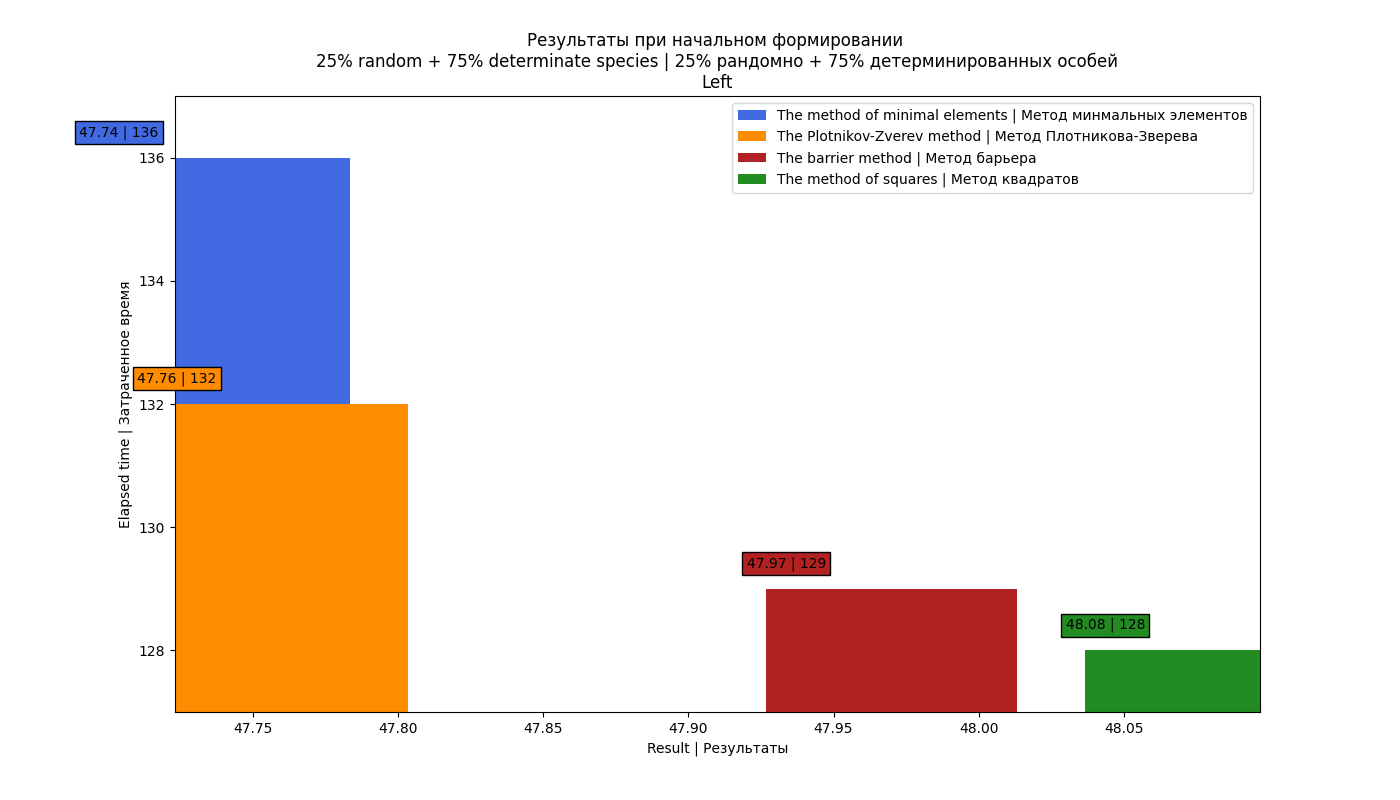
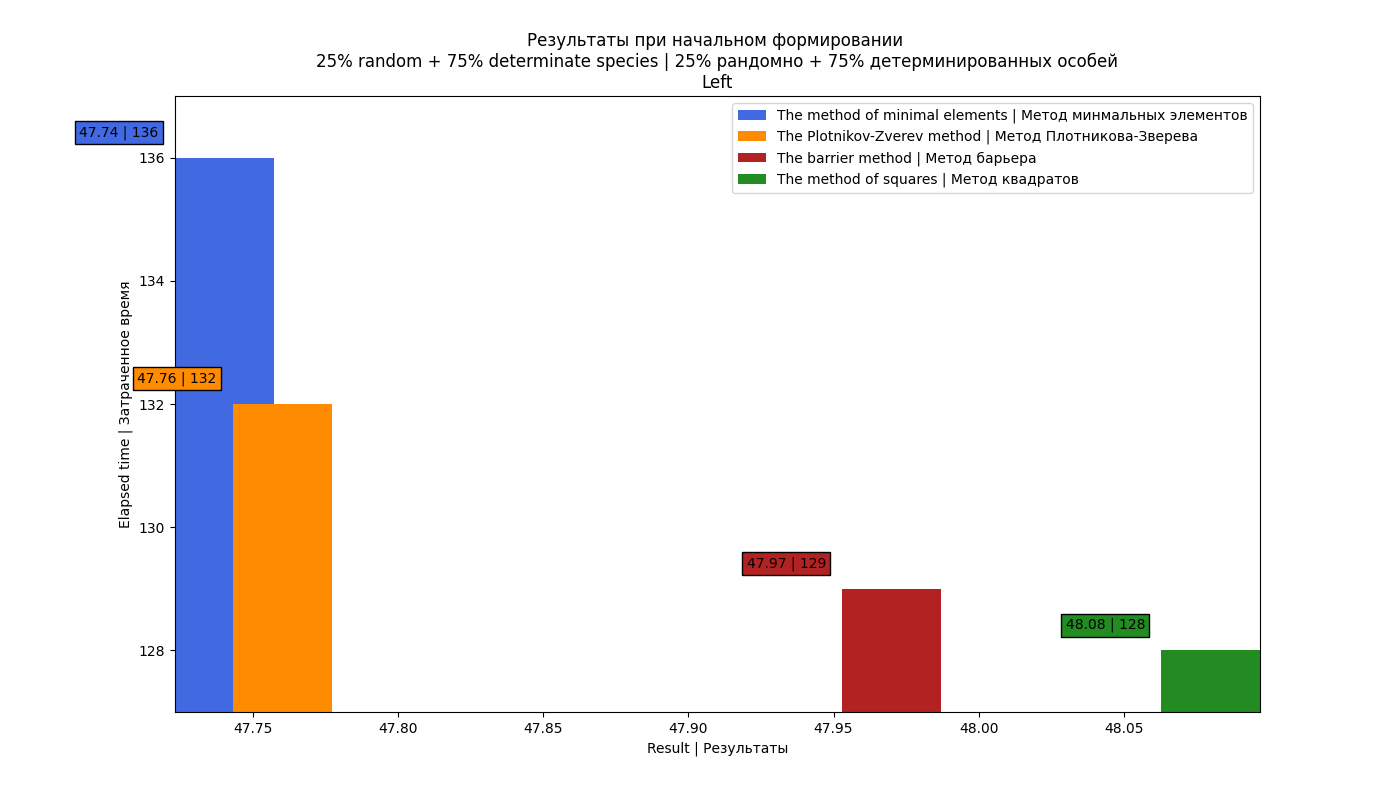
update

diff --git a/diploma/experiments/visualizing_histogram.py b/diploma/experiments/visualizing_histogram.py
@@ -109,7 +109,7 @@ for way in file_formation_init.keys():
     fig.set_size_inches(14, 8)
     fig.canvas.set_window_title('Result')
     if way_of_forming != '100% random species | 100% рандомных особей\n':
-        bars = [ax.bar(x, y, label=z, color=colors_dict[z], width=(data[-1] - data[0])) for x, y, z in zip(new_data, new_elapsed, new_str_methods)] #
+        bars = [ax.bar(x, y, label=z, color=colors_dict[z], width=(max(data) - min(data))/10) for x, y, z in zip(new_data, new_elapsed, new_str_methods)] #
         dict_, dict__ = {}, {}
         for i, x in enumerate(new_data):
             if x in dict_:
@@ -160,32 +160,90 @@ for way in file_formation_init.keys():
 
 if is_create_way == 1:
     fig, axes = plt.subplots(2, 2)
-    fig.set_size_inches(24, 13.5)
-    # axes.set_size_inches
-    #fig.subplots_adjust(left=0.07, bottom=0.04, top=0.97, hspace=0.13)
-    # legends = [] * len(str_methods)
+    fig.set_size_inches(19, 9.5)
+    # axes.set_size_i
+    k = 0
     for i, row in enumerate(axes):
         for j, col in enumerate(row):
             axes[i][j].set_title(
-                f'{all_way_of_forming[i + j][:all_way_of_forming[i + j].index("|") - 1]}',
+                f'{all_way_of_forming[i + j + k][:all_way_of_forming[i + j + k].index("|") - 1]}',
                 bbox=dict(boxstyle="square", facecolor='darkviolet', edgecolor="black"),
                 fontsize = 11
             )
-            max_data, min_data = max(data_all[i + j]), min(data_all[i + j])
-            max_elapsed, min_elapsed = max(elapsed_all[i + j]), min(elapsed_all[i + j])
-            [axes[i][j].bar(x, y, label=z, color=colors_dict[z], width=(max_data - min_data) / 8) for x, y, z in zip(data_all[i + j], elapsed_all[i + j], labels_all[i + j])]
+            max_data, min_data = max(data_all[i + j + k]), min(data_all[i + j + k])
+            max_elapsed, min_elapsed = max(elapsed_all[i + j + k]), min(elapsed_all[i + j + k])
+            [axes[i][j].bar(x, y, label=z, color=colors_dict[z], width=(max_data - min_data) / 8) for x, y, z in zip(data_all[i + j + k], elapsed_all[i + j + k], labels_all[i + j + k])]
             axes[i][j].set_xlim(left=min_data - (max_data - min_data) / 10, right=max_data + (max_data - min_data) / 10)
             axes[i][j].set_ylim(bottom=min_elapsed - 1, top=max_elapsed + 1)
             [axes[i][j].text(x - 0.05, y - 0.15, f"{x} | {y}",
-                     bbox=dict(boxstyle="square", facecolor=colors_dict[method], edgecolor="black")) for x, y, method in zip(data_all[i + j], elapsed_all[i + j], labels_all[i + j])]
+                     bbox=dict(boxstyle="square", facecolor=colors_dict[method], edgecolor="black")) for x, y, method in zip(data_all[i + j + k], elapsed_all[i + j + k], labels_all[i + j + k])]
             # axes[i][j].legend(loc='best')
             #axes[i][j].xlabel('Result | Результаты')
             #axes[i][j].ylabel('Elapsed time | Затраченное время')
             # axes[i][j].set_title()
+        k += 1
+    boundaries = {
+        0: '|__________x__________|',
+        1: 'x_____________________|',
+        2: '|_____________________x',
+        3: 'xxxxxxxxxxxxxxxxxxxxxxx'
+    }
     h, l = axes[0][0].get_legend_handles_labels()
+    # l = [f"{elem} ({data_all[0]} | {elapsed_all[0]})" for i, elem in enumerate(l)]
     fig.legend(handles=h, labels=l, loc='upper left')
-    fig.suptitle(f'{orientation_gene_text[:orientation_gene_text.index("_")].capitalize()}')
+    fig.suptitle(
+        f'Location between two processor boundaries: \n'
+        f'{orientation_gene_text[:orientation_gene_text.index("_")].capitalize()}\n'
+        f'{boundaries[bounds]}\n'
+       # f'{data_all[0]} | {elapsed_all[0]}'
+    )
     plt.savefig(f"histograms/{file_formation_genes[bounds]}/Result_all")
     # t.sleep(1)
+    # fig = plt.figure(figsize=(3.5, 2))
+    # location = (
+    #     0.5, 0.4, 0.3, 0.2
+    # )
+    # [fig.text(0, y, f"{row_data} {row_time}") for y, row_data, row_time in zip(location, data_all, elapsed_all)]
+    fig, ax = plt.subplots()
+    # fig.set_figheight(8)
+    # fig.set_figwidth(8)
+    ax.axis('tight')
+    ax.axis('off')
+    row = ["50r+50d", "25r+75d", "75r+25d", "100d", "result"]
+    col = ["Minimum", "Plt-Zverev", "Square", "Barrier", "result"]
+    cellData = [[0 for _ in range(len(data_all[0]))] for __ in range(len(data_all))]
+
+    for row_label, row_data, row_elapsed, row_cell in zip(labels_all, data_all, elapsed_all, cellData):
+        for i, check_method in enumerate(str_methods):
+            index = row_label.index(check_method)
+            row_cell[i] = (row_data[index], row_elapsed[index])
+    summary_results_method = [(0, 0) for _ in range(len(str_methods))]
+    summary_results_genes = [(0, 0) for _ in range(len(str_methods))]
+    for i in range(len(cellData)):
+        for j in range(len(cellData)):
+            summary_results_method[i] = (round(summary_results_method[i][0] + cellData[j][i][0], 2),
+                                         round(summary_results_method[i][1] + cellData[j][i][1], 2))
+            summary_results_genes[i] = (round(summary_results_genes[i][0] + cellData[i][j][0], 2),
+                                         round(summary_results_genes[i][1] + cellData[i][j][1], 2))
+    print(summary_results_genes)
+    print(cellData)
+    for i, elem in enumerate(cellData):
+        elem.append(summary_results_genes[i])
+    cellData.append(summary_results_method)
+    cellData[-1].append('')
+    ax.table(
+        cellText=cellData, cellLoc='center', loc='center',
+        rowColours=["palegreen"] * 5, colColours=["palegreen"] * 5, colLabels=col, rowLabels=row# colWidths=[0.1, 0.1, 0.1, 0.1],
+    )
+    # for i, row in enumerate(axes):
+    #     for j, col in enumerate(row):
+    #         ax[i][j].axis('tight')
+    #         ax[i][j].axis('off')
+    #         ax[i][j].table(
+    #             cellText=data_all, cellLoc='center', rowLabels=labels_all[i + j],
+    #             #rowColours=["palegreen"] * 4, colLabels=col, colColours=["palegreen"] * 4, loc='center'
+    #         )
+    #         ax[i][j].set_title('Матрица заданий', family='fantasy', size=15)
+    plt.savefig(f"experiment_results/{file_formation_genes[bounds]}/results.png")
     plt.show()
     # os.startfile(f"C:/Users/Богдан/PycharmProjects/everistika/diploma/experiments/histograms/{file_formation_genes[bounds]}/Result_all.png")
